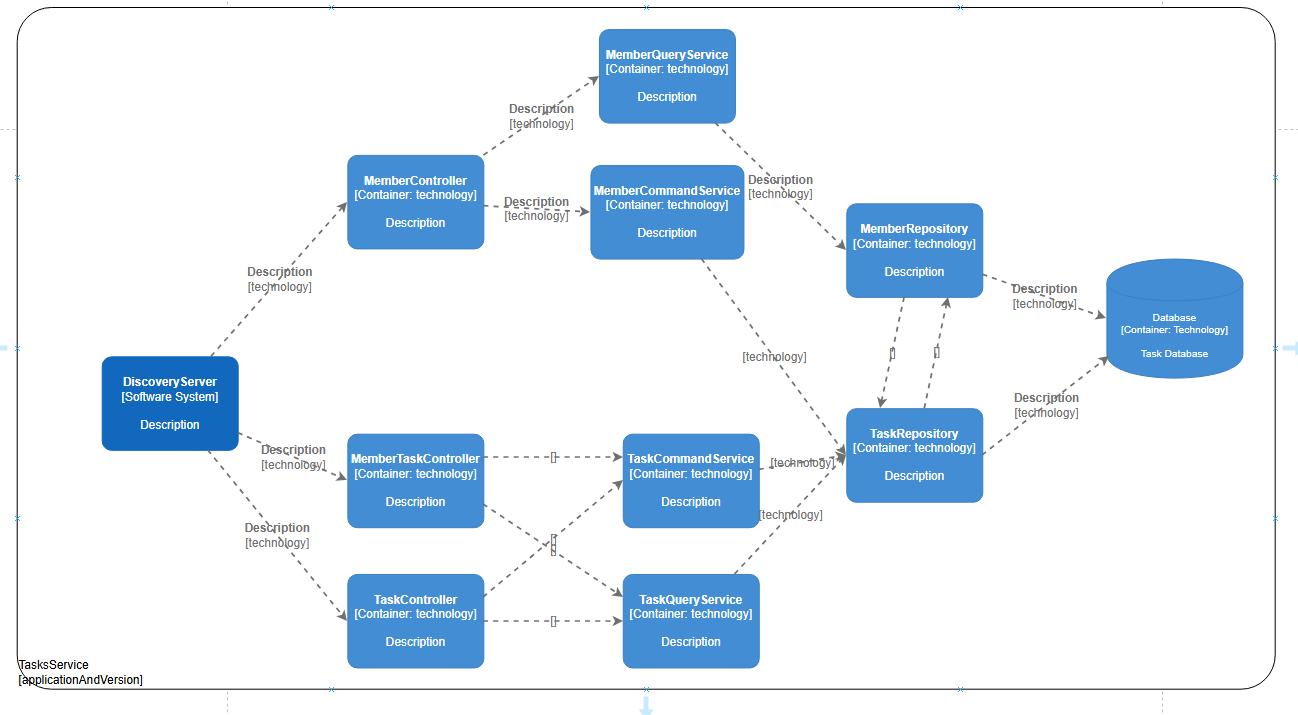
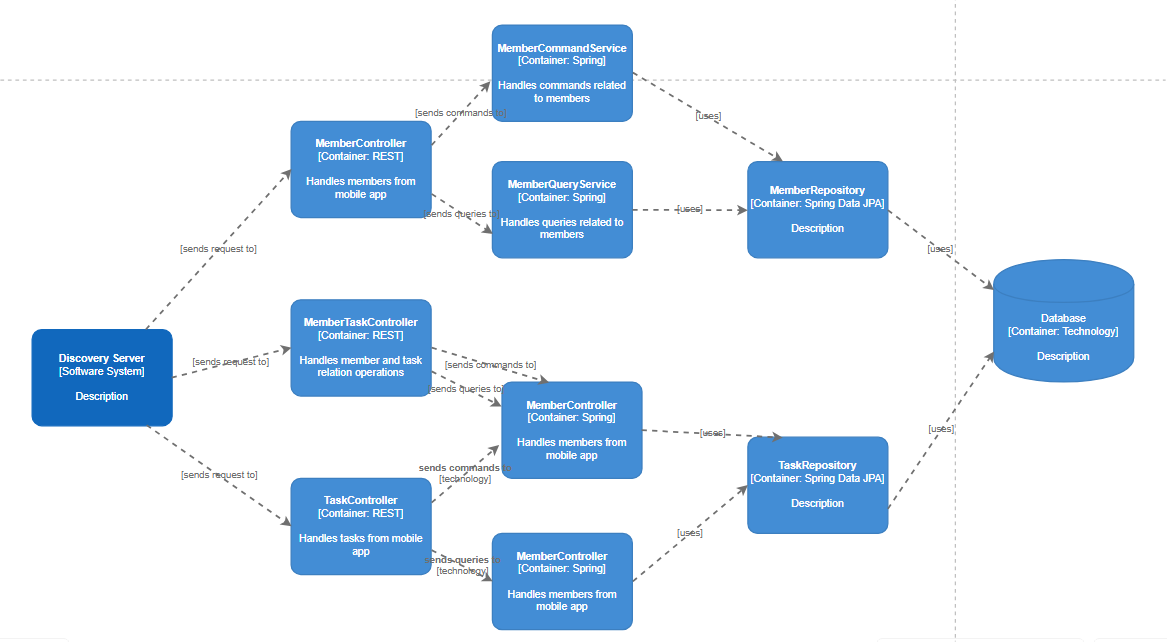
fix: tasks documentation

diff --git a/report.md b/report.md
@@ -3665,11 +3665,17 @@ contexto de Groups y elimina toda la información asociada en Tasks.
 
 ### 5.3.5. Bounded Context Software Architecture Component Level Diagrams
 
+[![tasks-components.png](https://i.postimg.cc/htcmH8m4/tasks-components.png)](https://postimg.cc/zV23hgp4)
+
 ### 5.3.6. Bounded Context Software Architecture Code Level Diagrams
 
 ### 5.3.6.1 Bounded Context Domain Layer Class Diagrams
 
+[tasks-uml.png](https://postimg.cc/8jXsv6w2)
+
 ### 5.3.6.2 Bounded Context Database Design Diagram
+
+[tasks-db.png](https://postimg.cc/HVvjMy3f)
 
 ## 5.4. Bounded Context: Requests
 
